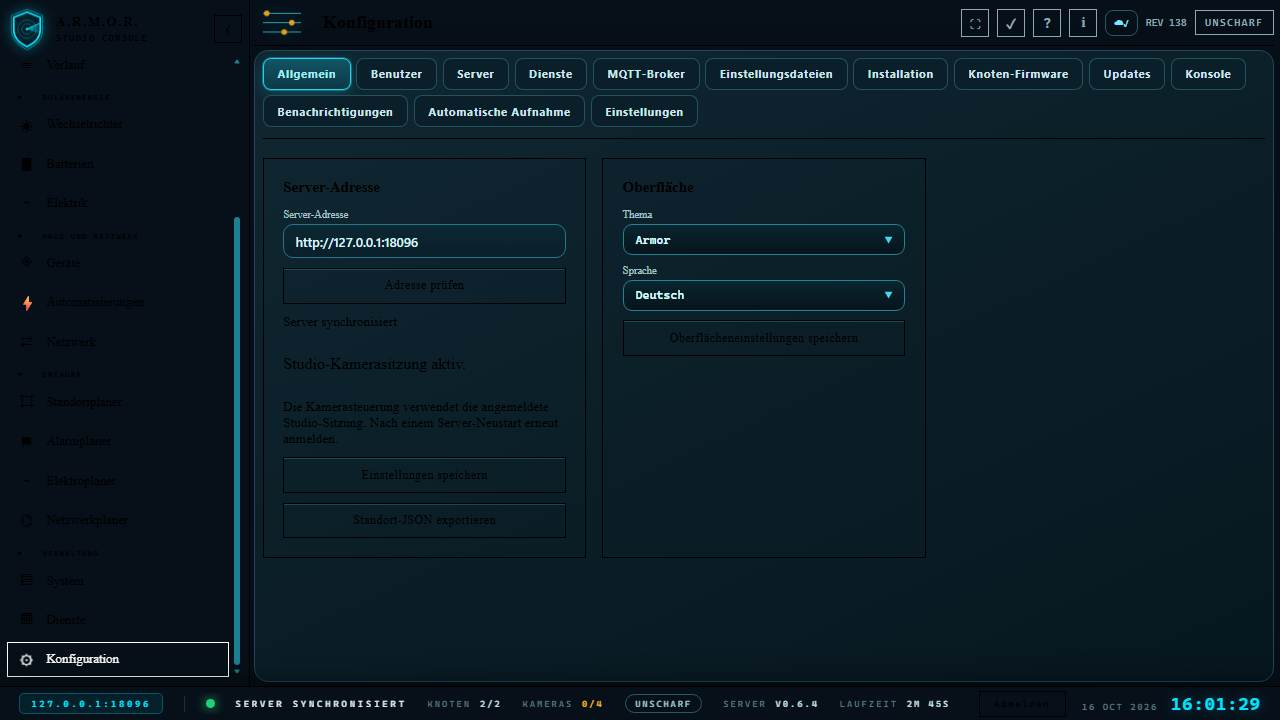
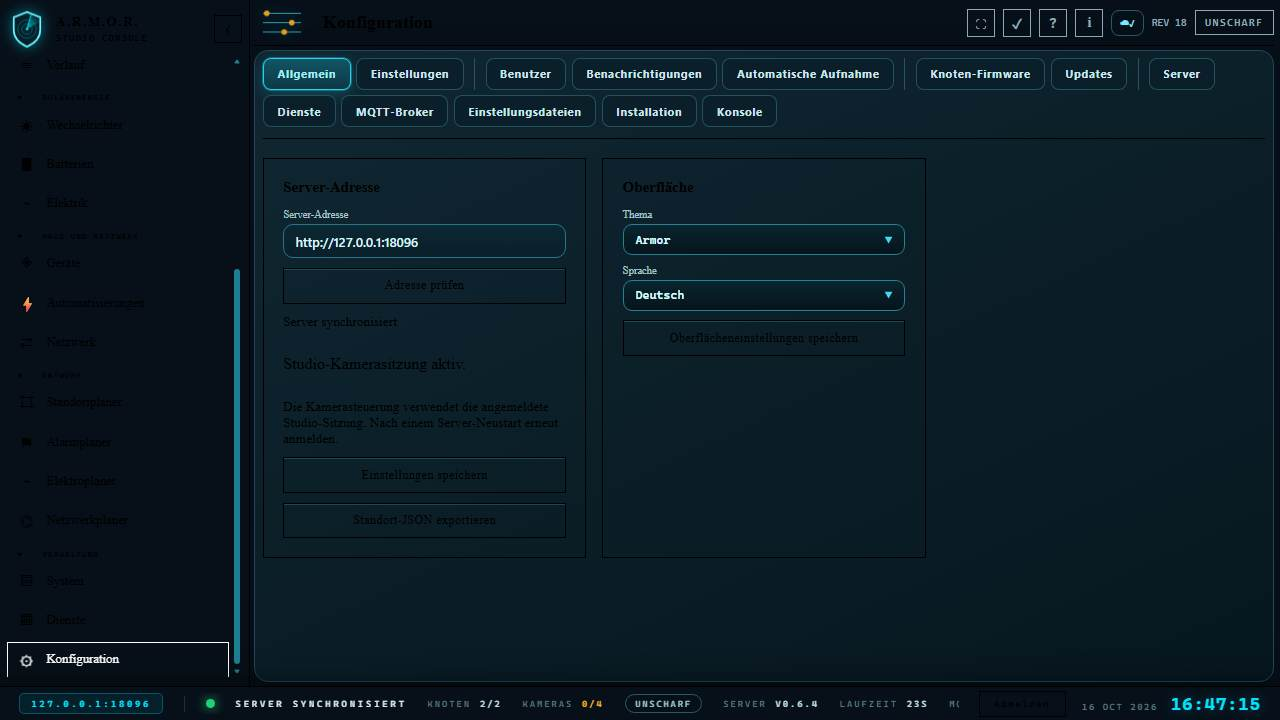
Group the Configuration tabs from the person's own settings to the system's, and refresh the Help pictures of that menu

diff --git a/src/ConfigurationPanel.tsx b/src/ConfigurationPanel.tsx
@@ -1,4 +1,4 @@
-import { useEffect, useState } from "react";
+import { Fragment, useEffect, useState } from "react";
 import { readConnection, saveConnection, type ConnectionState } from "./api";
 import { UsersPanel } from "./UsersPanel";
 import { BrokerPanel, FilesPanel, ServicesPanel } from "./AdminPanel";
@@ -26,7 +26,9 @@ type Props = {
 };
 
 const VIEWER_TABS: readonly string[] = ["general", "users", "preferences"];
-const tabs: Tab[] = ["general", "users", "server", "services", "broker", "files", "installation", "firmware", "updates", "console", "notifications", "capture", "preferences"];
+/** The tabs in groups, from what is the person's own to what is the system's: the interface; people, alerts and what is recorded; the nodes' firmware and Studio's updates; the server and what it runs on. */
+const tabGroups: Tab[][] = [["general", "preferences"], ["users", "notifications", "capture"], ["firmware", "updates"], ["server", "services", "broker", "files", "installation", "console"]];
+const tabs: Tab[] = tabGroups.flat();
 
 /** Can the browser reach something at this address at all? (no-cors: only a network failure rejects, which is what a wrong scheme or port gives.) */
 async function reachable(url: string): Promise<boolean> {
@@ -88,7 +90,7 @@ export function ConfigurationPanel(props: Props) {
   return <section className="configuration">
     <div className="panel-heading"><MenuTitle kind="configuration"><p className="eyebrow">{t("systemConfiguration")}</p><h2>{t("configuration")}</h2><p className="muted">{t("configurationHelp")}</p></MenuTitle></div>
     <div className="config-tabs" role="tablist" aria-label={t("configuration")} data-tour="config-tabs">
-      {tabs.filter(item => !props.isViewer || VIEWER_TABS.includes(item)).map(item => <button key={item} data-tour={`tab-${item}`} className={tab === item ? "active" : ""} role="tab" aria-selected={tab === item} onClick={() => setTab(item)}>{tabLabel(item)}</button>)}
+      {tabGroups.map(group => group.filter(item => !props.isViewer || VIEWER_TABS.includes(item))).filter(group => group.length > 0).map((group, position) => <Fragment key={group[0]}>{position > 0 && <span className="tab-sep" aria-hidden="true" />}{group.map(item => <button key={item} data-tour={`tab-${item}`} className={tab === item ? "active" : ""} role="tab" aria-selected={tab === item} onClick={() => setTab(item)}>{tabLabel(item)}</button>)}</Fragment>)}
     </div>
     {tab === "general" && <div className="config-grid">
       <article className="stack-card"><h3>{t("serverOrigin")}</h3><label>{t("serverOrigin")}<input value={props.origin} onChange={event => props.setOrigin(event.target.value)} inputMode="url" /></label><OriginCheck t={t} origin={props.origin} setOrigin={props.setOrigin} /><small>{props.connection}</small><p className={`operator-session ${props.operatorUnlocked ? "ready" : ""}`}>{props.operatorUnlocked ? t("studioAccessActive") : t("studioAccessWaiting")}</p><small>{t("studioAccessNotice")}</small><button onClick={props.savePreferences}>{t("savePreferences")}</button><button onClick={props.exportSite}>{t("exportSite")}</button></article>

diff --git a/src/configuration.css b/src/configuration.css
@@ -73,3 +73,6 @@
 @media (max-width: 980px) { .fw-grid, .fw-targets { grid-template-columns: minmax(0, 1fr); } }
 /* The same buttons inside a row of Configuration > Services and of the broker card. */
 .adm-actions.svc-actions { margin: 0; padding: 0; border: 0; flex-wrap: nowrap; }
+
+/* a thin line between the groups of tabs */
+.config-tabs .tab-sep { align-self: stretch; width: 1px; margin: 0 .3rem; background: #285363; }
